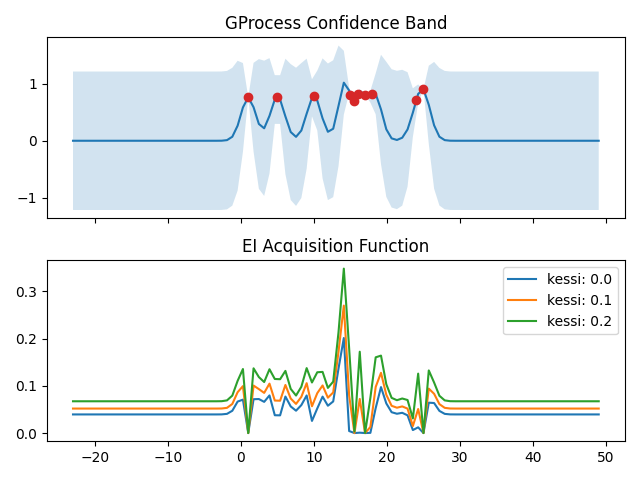
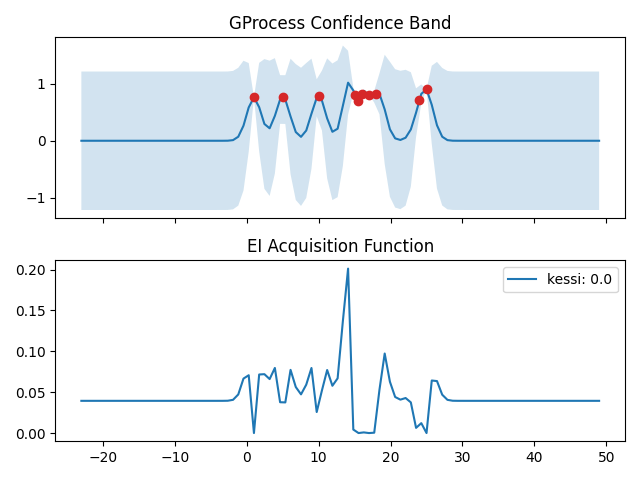
ad test module to verify the gradient of EI algorithm

diff --git a/optimization.py b/optimization.py
@@ -138,7 +138,7 @@ class ExpectedImprovement(ZeroGProcess):
         var_current = self.compute_var(current_point)
 
         grads_current_util = []
-
+        
         for i in range(num_mc):
             z = np.random.normal(0, 1, 1)
             current_util = mean_current + np.sqrt(var_current)*z - y_max
@@ -156,7 +156,7 @@ class ExpectedImprovement(ZeroGProcess):
                 grad = grad_mean + grad_var * z
             
             grads_current_util.append(grad)
-        
+
         grad_current_util = np.mean(grads_current_util, axis=0) # take element-wise mean 
 
         return grad_current_util
@@ -239,7 +239,7 @@ if __name__ == "__main__":
     x2 = [10.4]
     print("UCB({:.2f}) = {:.2f}".format(x2[0], UCB.aux_func(x2, gamma)))
 
-    UCB.plot(gammas=[0.8, 0.9, 1])
+    #UCB.plot(gammas=[0.8, 0.9, 1])
 
     # Test EI
     EI = ExpectedImprovement()
@@ -248,9 +248,24 @@ if __name__ == "__main__":
     print(EI.Y)
 
     kessi = 15
-    x1 = [1.5]
+    x1 = [14]
     print("EI({:.2f}) = {:.2f}".format(x1[0], EI.aux_func(x1, kessi)))
     x2 = [10.4]
     print("EI({:.2f}) = {:.2f}".format(x2[0], EI.aux_func(x2, kessi)))
 
-    EI.plot(kessis=[0.0, 0.1, 0.2])
+    EI.plot(kessis=[0.0])
+
+    print("grad(18)", EI.auto_grad([18], num_mc=10000))
+    print("grad(18.2)", EI.auto_grad([18.2], num_mc=10000))
+    print("grad(18.4)", EI.auto_grad([18.4], num_mc=10000))
+    print("grad(18.6)", EI.auto_grad([18.6], num_mc=10000))
+    print("grad(18.8)", EI.auto_grad([18.8], num_mc=10000))
+    print("grad(19)", EI.auto_grad([19], num_mc=10000))
+    print("grad(19.3)", EI.auto_grad([19.3], num_mc=10000))
+    print("grad(19.6)", EI.auto_grad([19.6], num_mc=10000))
+    print("grad(20)", EI.auto_grad([20], num_mc=10000))
+    print("grad(20.5)", EI.auto_grad([20.5], num_mc=10000))
+    print("grad(21)", EI.auto_grad([21], num_mc=10000))
+    print("grad(21.5)", EI.auto_grad([21.5], num_mc=10000))
+    print("grad(22)", EI.auto_grad([22], num_mc=10000))
+    
